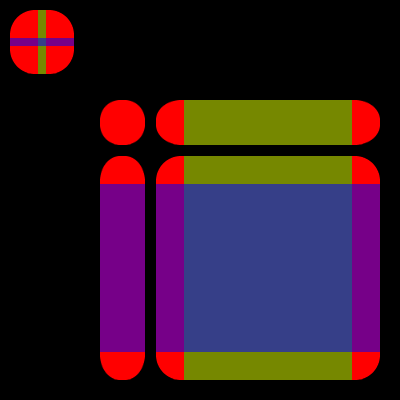
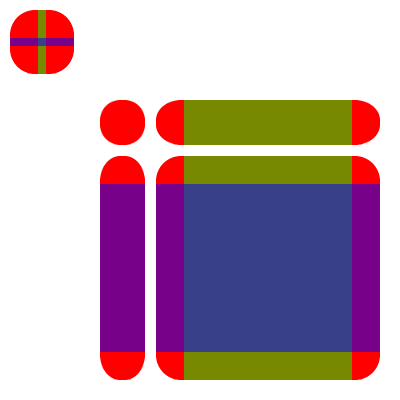
reimage ninepatch-stretch with white bg (for easier printing)
git-svn-id: https://skia.googlecode.com/svn/trunk@2225 2bbb7eff-a529-9590-31e7-b0007b416f81

diff --git a/samplecode/SampleNinePatch.cpp b/samplecode/SampleNinePatch.cpp
@@ -6,12 +6,9 @@
  * found in the LICENSE file.
  */
 #include "SampleCode.h"
-#include "SkView.h"
 #include "SkCanvas.h"
-#include "SkImageDecoder.h"
 #include "SkNinePatch.h"
 #include "SkPaint.h"
-#include "SkUnPreMultiply.h"
 #include "SkGpuDevice.h"
 
 static void make_bitmap(SkBitmap* bitmap, GrContext* ctx, SkIRect* center) {
@@ -43,16 +40,6 @@ static void make_bitmap(SkBitmap* bitmap, GrContext* ctx, SkIRect* center) {
     SkPaint paint;
     paint.setAntiAlias(true);
 
-#if 0
-    r.inset(strokeWidth/2, strokeWidth/2);
-
-    paint.setColor(SK_ColorBLUE);
-    canvas.drawRoundRect(r, radius, radius, paint);
-    paint.setColor(SK_ColorRED);
-    paint.setStyle(SkPaint::kStroke_Style);
-    paint.setStrokeWidth(strokeWidth);
-    canvas.drawRoundRect(r, radius, radius, paint);
-#else
     paint.setColor(0xFFFF0000);
     canvas.drawRoundRect(r, radius, radius, paint);
     r.setXYWH(SkIntToScalar(kFixed), 0, SkIntToScalar(kStretchy), SkIntToScalar(kSize));
@@ -61,7 +48,6 @@ static void make_bitmap(SkBitmap* bitmap, GrContext* ctx, SkIRect* center) {
     r.setXYWH(0, SkIntToScalar(kFixed), SkIntToScalar(kSize), SkIntToScalar(kStretchy));
     paint.setColor(0x880000FF);
     canvas.drawRect(r, paint);
-#endif
 }
 
 

diff --git a/samplecode/SampleBitmapRect.cpp b/samplecode/SampleBitmapRect.cpp
@@ -66,7 +66,7 @@ protected:
     }
     
     virtual void onDrawContent(SkCanvas* canvas) {
-        GrContext* ctx = NULL;//SampleCode::GetGr();
+        GrContext* ctx = SampleCode::GetGr();
 
         const SkIRect src[] = {
             { 0, 0, 32, 32 },

diff --git a/gm/ninepatchstretch.cpp b/gm/ninepatchstretch.cpp
@@ -75,7 +75,7 @@ protected:
     }
     
     virtual void onDraw(SkCanvas* canvas) {
-        canvas->drawColor(SK_ColorBLACK);
+        canvas->drawColor(SK_ColorWHITE);
 
         SkBitmap bm;
         SkIRect center;
